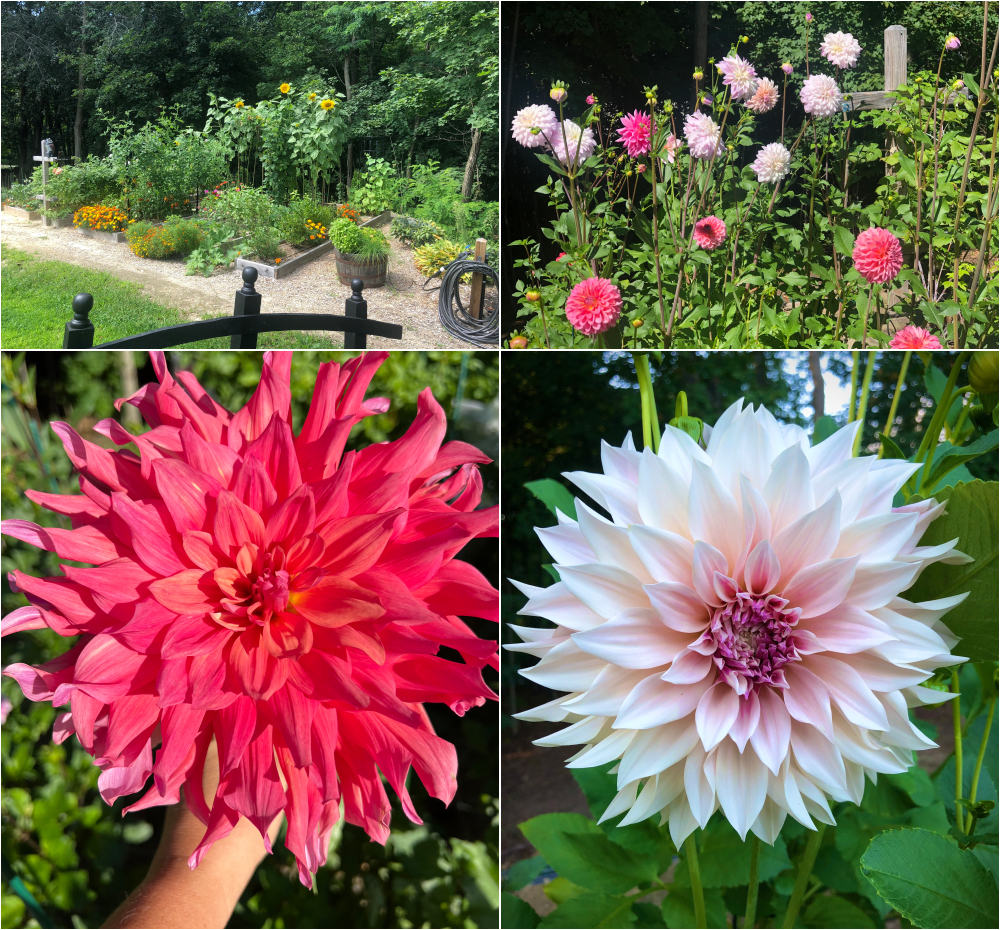
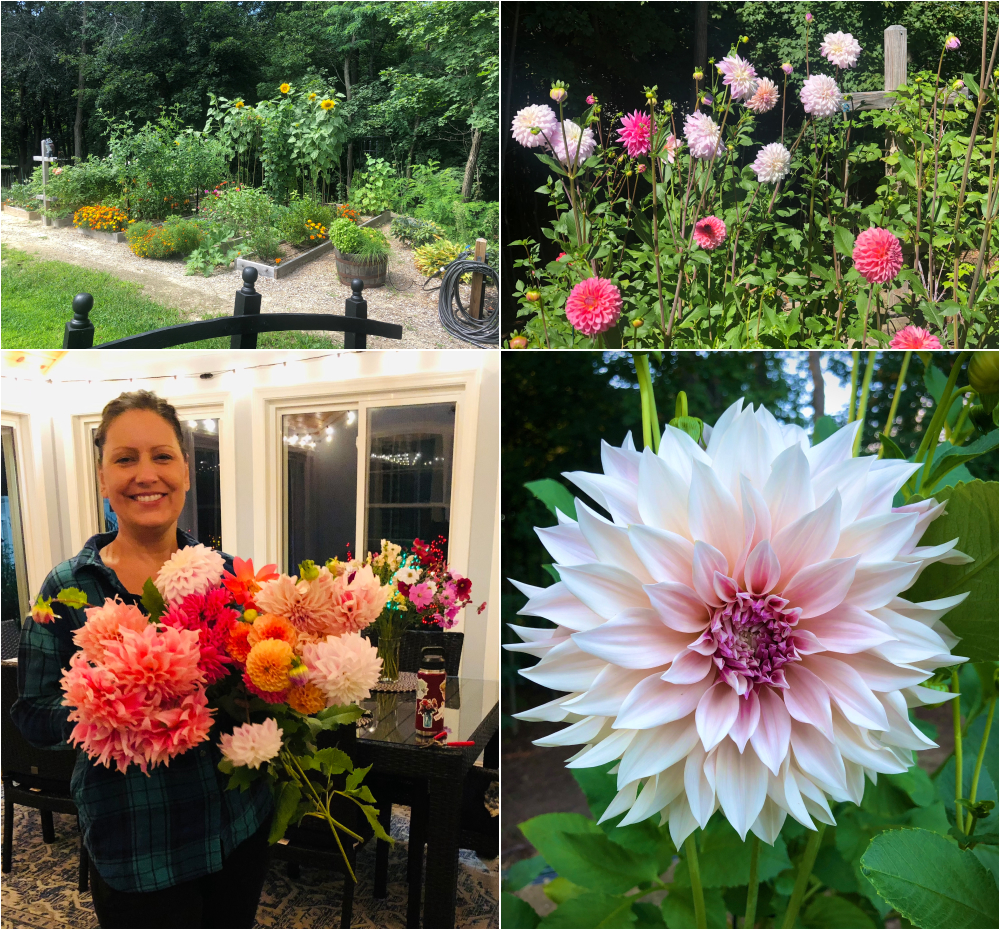
newsletter updates

Changed region(s): [[0.0, 0.3742, 0.496, 1.0]]

diff --git a/202303/20230301_newsletter/20230301_newsletter.html b/202303/20230301_newsletter/20230301_newsletter.html
@@ -406,7 +406,7 @@
                               <h1 style="margin-bottom: 1rem">Lori Nelson</h1>
                               <img src="lori-nelson.jpg" width="100%" />
                               <p>
-                                <em>Photo 1-4 by Lori Nelson</em>
+                                <em>Photos by Lori Nelson</em>
                               </p>
                               <hr class="divider" />
                               <p>
@@ -559,6 +559,10 @@
                                 is an excellent organic soil additive in
                                 addition to a fantastic way to dispose of your
                                 vegetable scraps!
+                              </p>
+                              <img src="worm-castings.jpg" width="100%" />
+                              <p>
+                                <em>Photos by Lori Nelson</em>
                               </p>
                             </td>
                           </tr>
